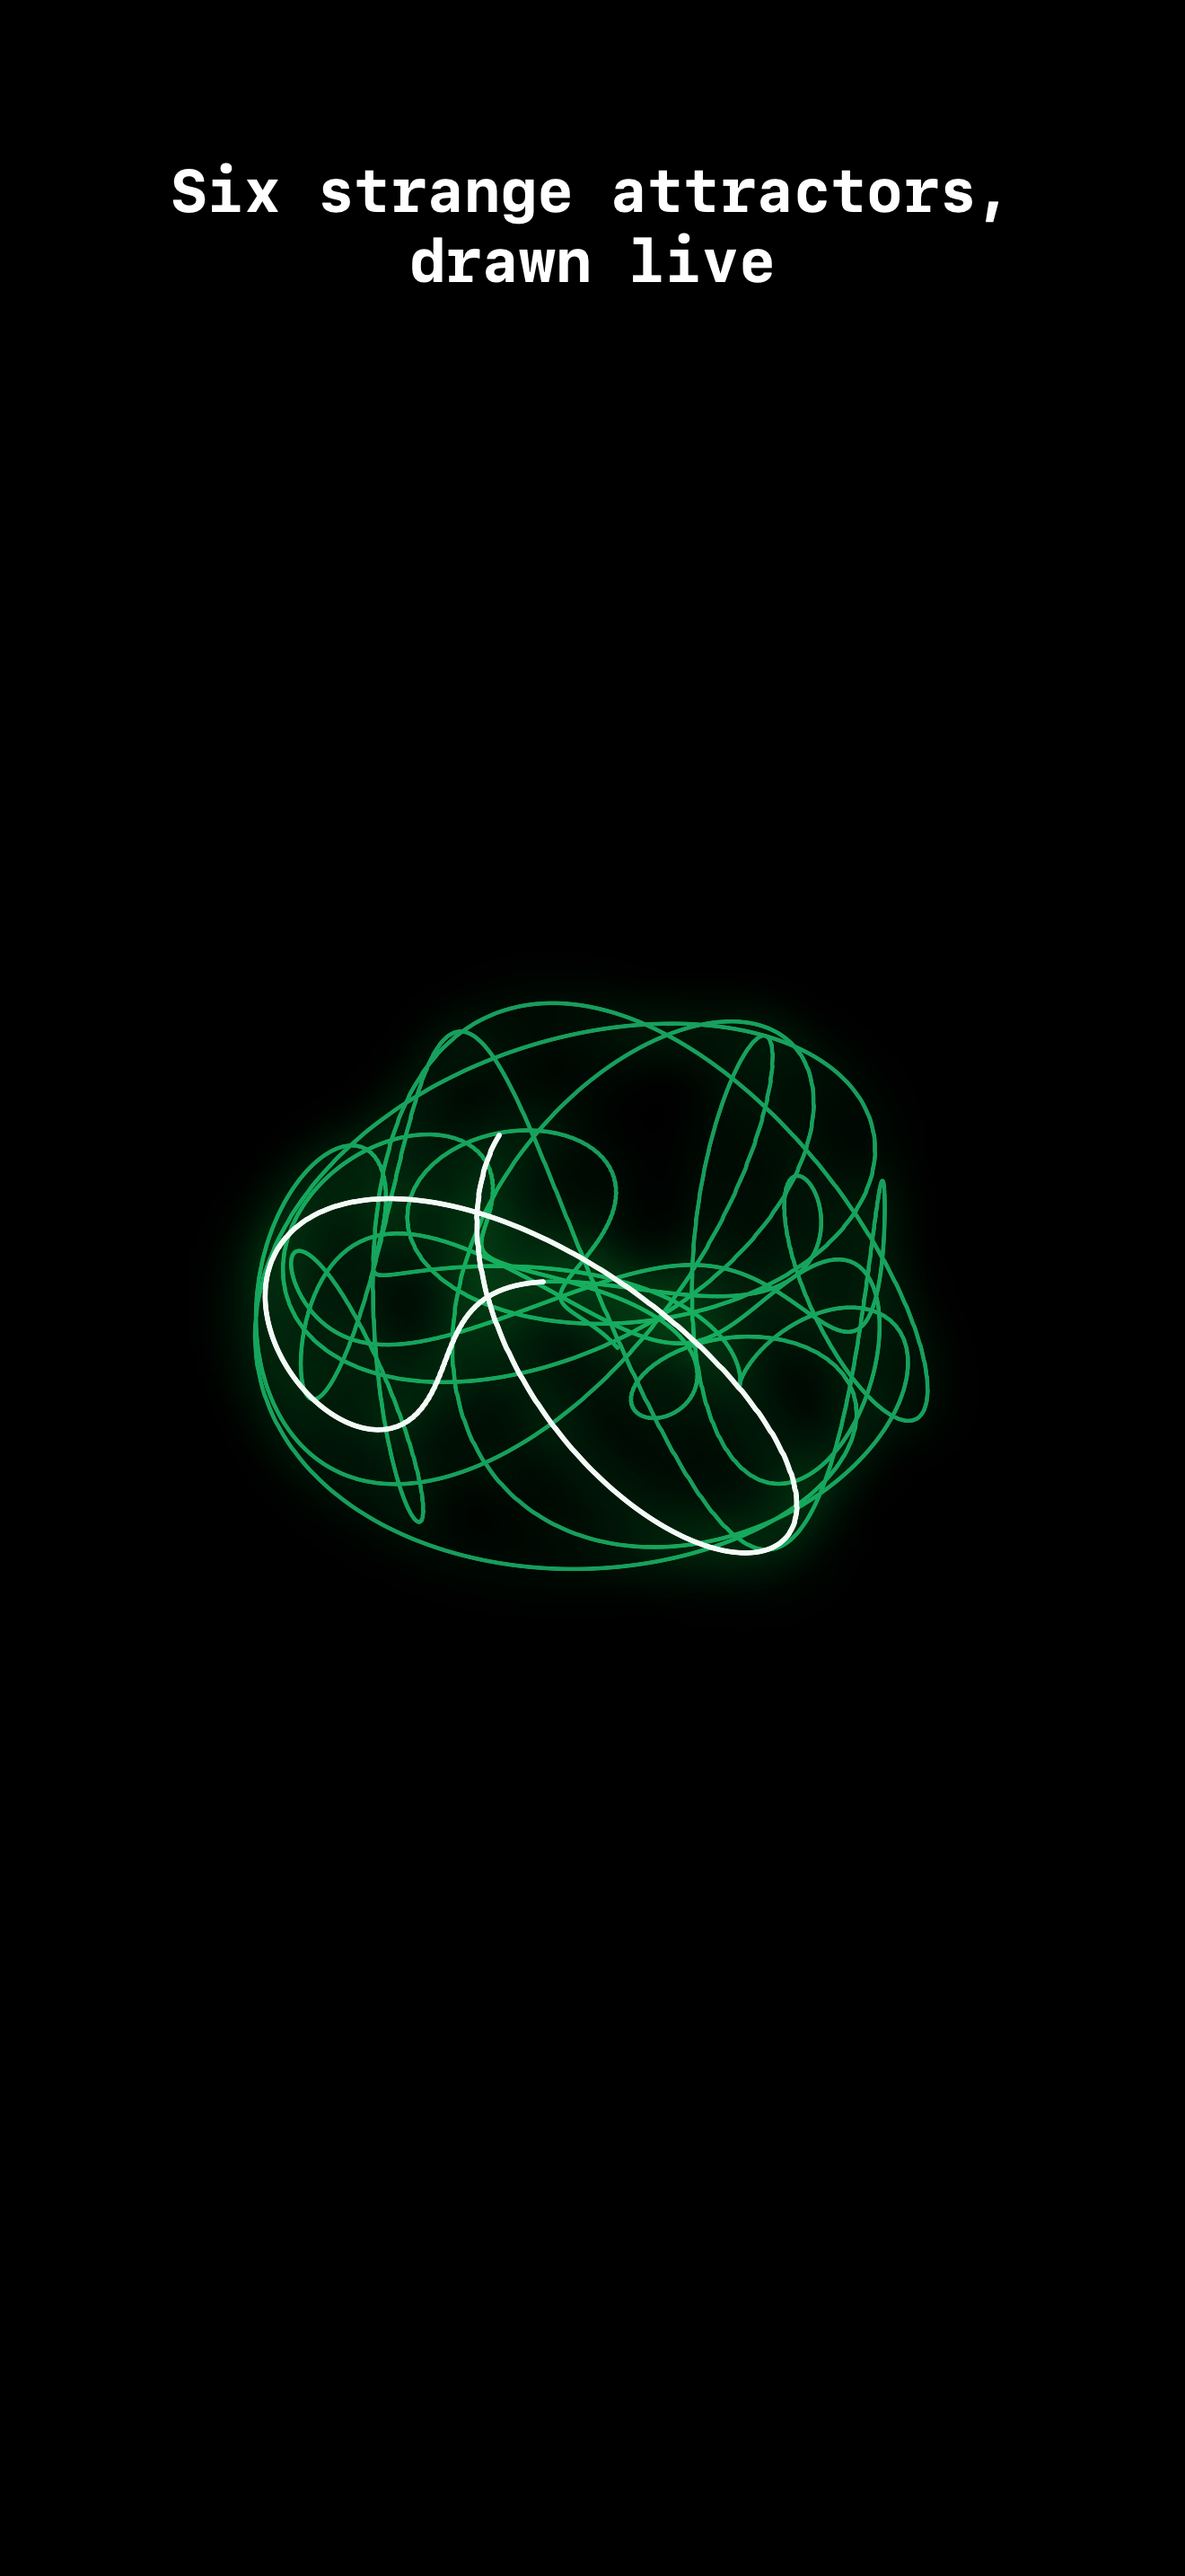
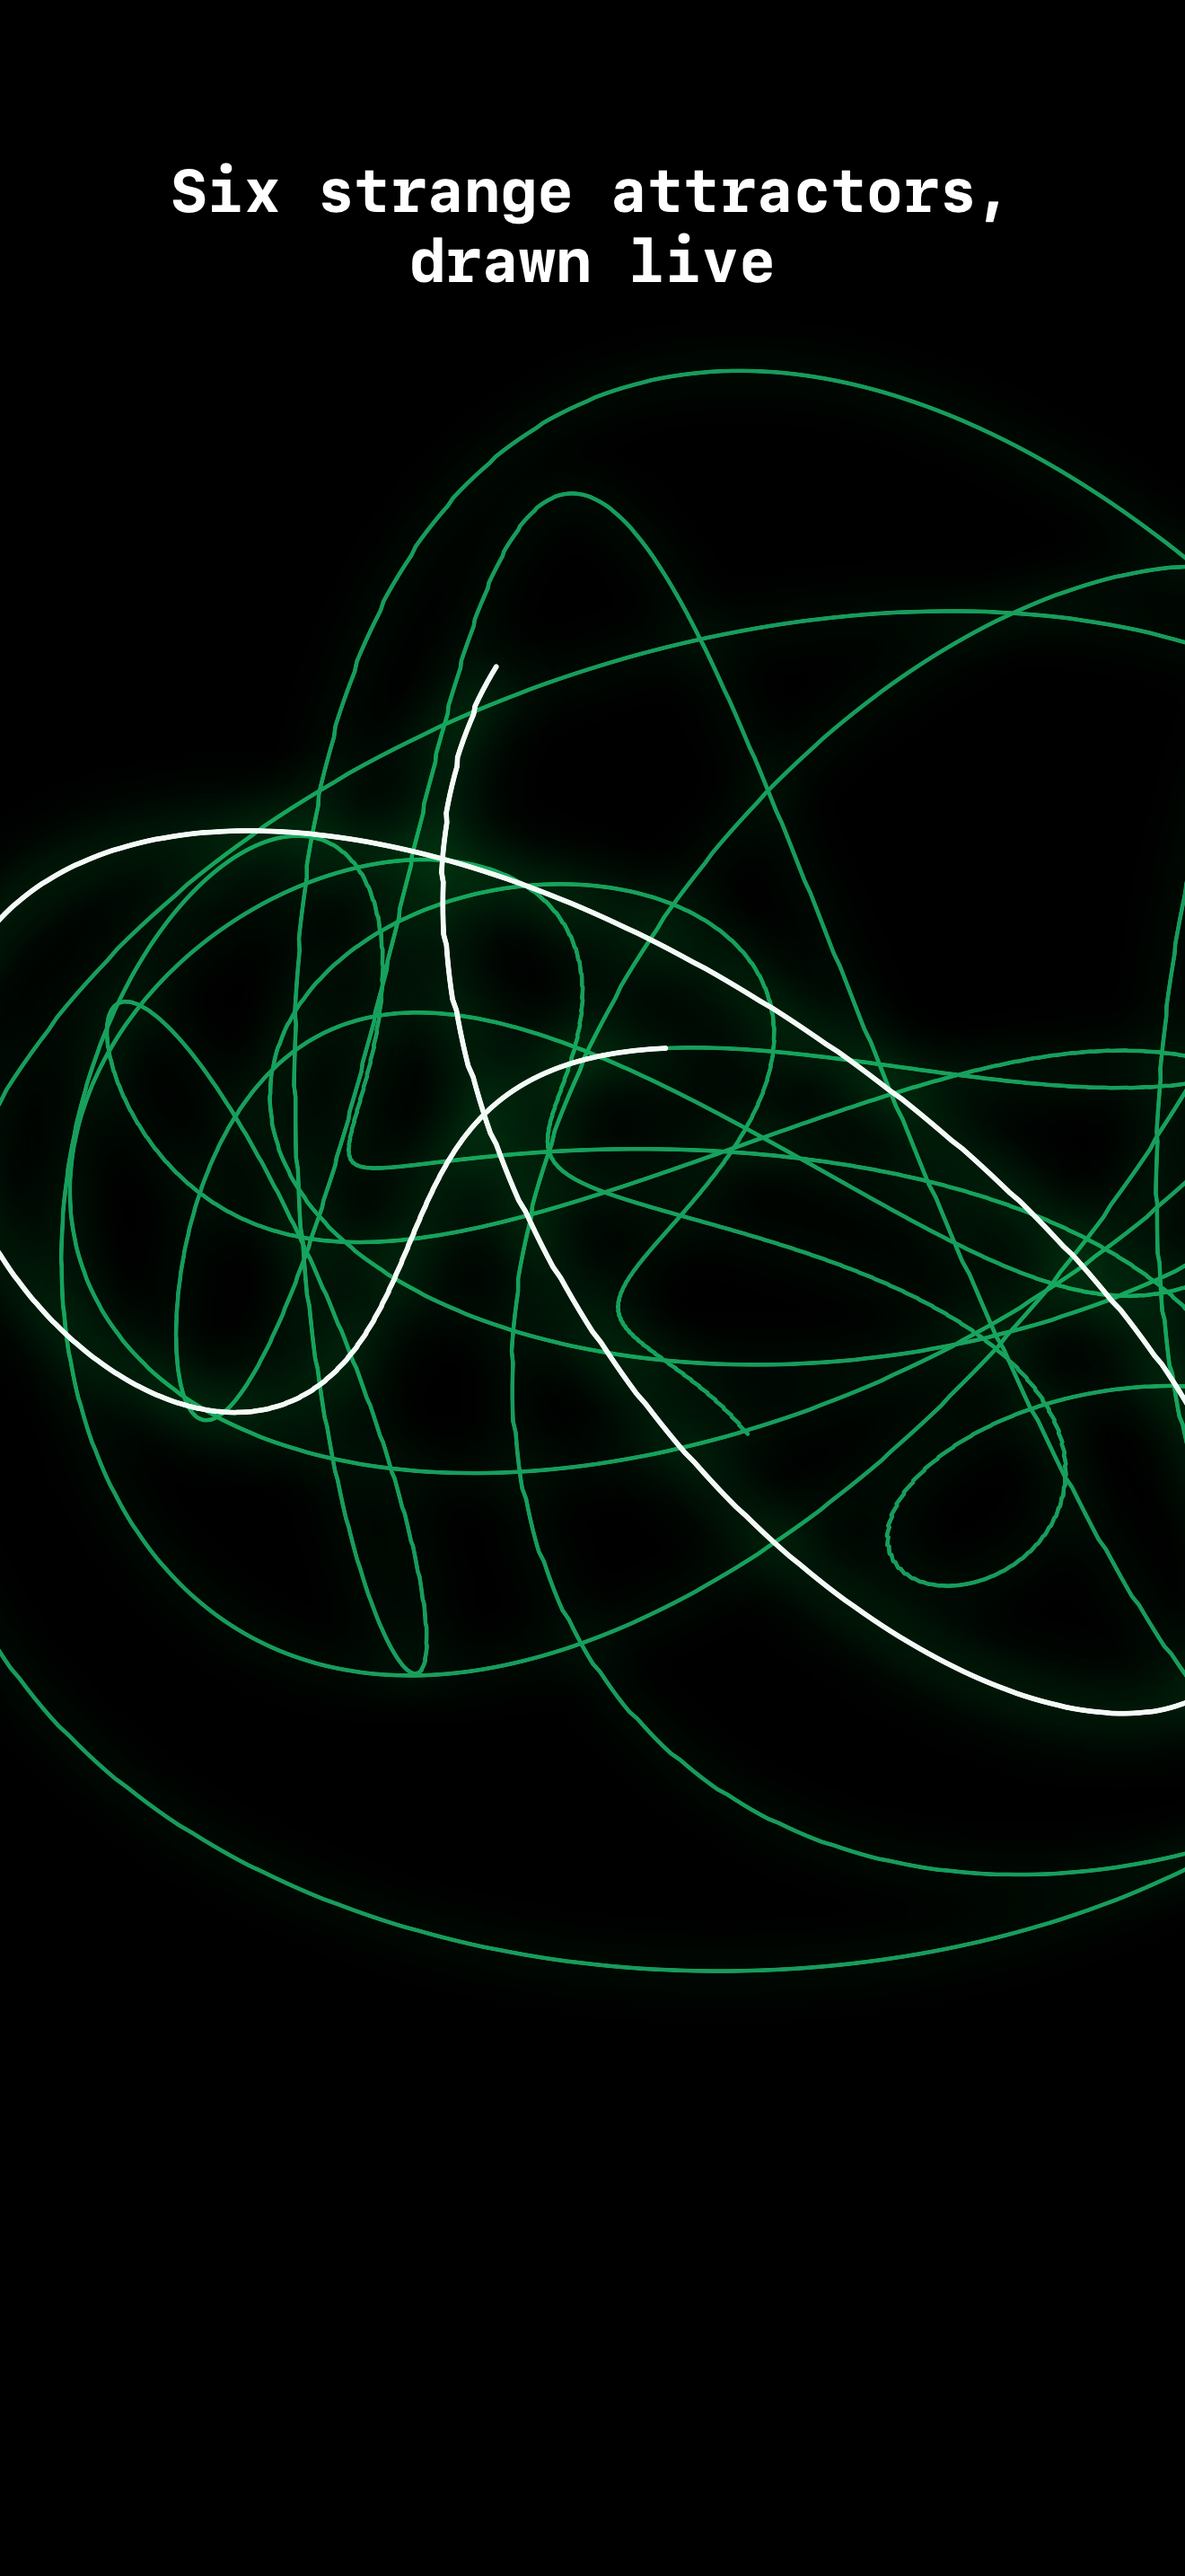
Add widget showcase to App Store screenshots
The app ships a Home-Screen widget (systemSmall/Medium/Large) that had no
App Store media. StoreCardGenerator now renders a 6th shot — a Home-Screen
mockup with a medium + two small widget tiles, each a distinct attractor
via the shared engine — at both device sizes. Uploaded to the editable
1.0.1 version (6 shots per device). Attractor cards re-rendered in the
same pass.

diff --git a/AttractiveCore/Tests/StoreCardGenerator.swift b/AttractiveCore/Tests/StoreCardGenerator.swift
@@ -49,6 +49,119 @@ final class StoreCardGenerator: XCTestCase {
                 try Self.writePNG(cg, to: url)
                 print("WROTE \(url.path)  \(cg.width)x\(cg.height)")
             }
+
+            // 6th shot: the widget showcase. The app ships a Home-Screen widget
+            // (systemSmall/Medium/Large) that had no App Store media; this renders
+            // the same attractor tiles on a Home-Screen mockup so the listing
+            // shows the widget in context.
+            let widgetRenderer = ImageRenderer(content: WidgetShowcaseCard(size: size))
+            widgetRenderer.scale = 1
+            if let cg = widgetRenderer.cgImage {
+                let url = dir.appendingPathComponent("06-widgets.png")
+                try Self.writePNG(cg, to: url)
+                print("WROTE \(url.path)  \(cg.width)x\(cg.height)")
+            } else {
+                XCTFail("ImageRenderer returned nil for widget showcase \(label)")
+            }
+        }
+    }
+
+    /// Per-attractor hue, mirroring `AttractorPalette` in the widget target (kept
+    /// in sync by hand — the widget target isn't importable from these tests).
+    private static func hue(for id: AttractorID) -> Double {
+        switch id {
+        case .lorenz:    return 0.55
+        case .rossler:   return 0.78
+        case .aizawa:    return 0.42
+        case .thomas:    return 0.12
+        case .halvorsen: return 0.92
+        case .chen:      return 0.62
+        }
+    }
+
+    /// Draws one attractor trail (dim full trail + bright leading head) into a
+    /// GraphicsContext, matching `AttractorWidgetView.draw`. Shared by the widget
+    /// tiles so the shot reads exactly like the shipping widget.
+    fileprivate static func drawAttractor(_ id: AttractorID, hue: Double, in ctx: inout GraphicsContext, size: CGSize) {
+        ctx.fill(Path(CGRect(origin: .zero, size: size)), with: .color(.black))
+        guard size.width > 1, size.height > 1 else { return }
+        let engine = AttractiveEngine(config: AttractorRegistry.defaultConfig(for: id))
+        engine.integrator = .rk4
+        engine.maxPoints = 7000
+        engine.regenerate(width: Double(size.width), height: Double(size.height))
+        let target = min(engine.maxPoints - 200, 6000)
+        var t = 0.0
+        while engine.points.count < target {
+            t += 16.0
+            engine.advance(timeMs: t)
+            if t > 120_000 { break }
+        }
+        guard engine.points.count > 2 else { return }
+        let base = Color(hue: hue, saturation: 0.85, brightness: 1.0)
+        let lw = max(1.0, size.width * 0.012)
+        var trail = ctx
+        trail.addFilter(.shadow(color: base.opacity(0.7), radius: size.width * 0.04))
+        trail.stroke(Path(engine.trailPath()),
+                     with: .color(base.opacity(0.6)),
+                     style: StrokeStyle(lineWidth: lw, lineCap: .round, lineJoin: .round))
+        let headCount = min(engine.points.count, 600)
+        if headCount > 1 {
+            let pts = engine.points.suffix(headCount)
+            var head = Path()
+            head.move(to: pts.first!)
+            for p in pts.dropFirst() { head.addLine(to: p) }
+            var hl = ctx
+            hl.addFilter(.shadow(color: base.opacity(0.9), radius: size.width * 0.05))
+            hl.stroke(head, with: .color(.white.opacity(0.95)),
+                      style: StrokeStyle(lineWidth: lw * 1.2, lineCap: .round, lineJoin: .round))
+        }
+    }
+
+    /// One widget tile: a rounded attractor render on black, matching how
+    /// WidgetKit frames `AttractorWidgetView`.
+    private struct WidgetTile: View {
+        let id: AttractorID
+        let side: CGSize
+        var body: some View {
+            Canvas(opaque: true, colorMode: .extendedLinear) { ctx, sz in
+                StoreCardGenerator.drawAttractor(id, hue: StoreCardGenerator.hue(for: id), in: &ctx, size: sz)
+            }
+            .frame(width: side.width, height: side.height)
+            .clipShape(RoundedRectangle(cornerRadius: side.height * 0.22, style: .continuous))
+        }
+    }
+
+    /// A Home-Screen mockup: soft wallpaper, a medium widget over two small
+    /// widgets (three distinct attractors), and a headline. Reads as "the widget,
+    /// on your Home Screen."
+    private struct WidgetShowcaseCard: View {
+        let size: CGSize
+        var body: some View {
+            let unit = size.width * 0.40          // a systemSmall tile edge
+            let gap = size.width * 0.06
+            ZStack(alignment: .top) {
+                LinearGradient(colors: [Color(hue: 0.62, saturation: 0.55, brightness: 0.22),
+                                        Color(hue: 0.80, saturation: 0.6, brightness: 0.10),
+                                        .black],
+                               startPoint: .topLeading, endPoint: .bottomTrailing)
+                VStack(spacing: gap) {
+                    Spacer(minLength: size.height * 0.14)
+                    Text("Live attractors on your Home Screen")
+                        .font(.system(size: size.width * 0.048, weight: .bold, design: .monospaced))
+                        .foregroundStyle(.white)
+                        .multilineTextAlignment(.center)
+                        .lineLimit(2)
+                        .padding(.horizontal, size.width * 0.08)
+                    // Medium widget (2 wide) over two small widgets.
+                    WidgetTile(id: .lorenz, side: CGSize(width: unit * 2 + gap, height: unit))
+                    HStack(spacing: gap) {
+                        WidgetTile(id: .aizawa, side: CGSize(width: unit, height: unit))
+                        WidgetTile(id: .thomas, side: CGSize(width: unit, height: unit))
+                    }
+                    Spacer()
+                }
+            }
+            .frame(width: size.width, height: size.height)
         }
     }
 
